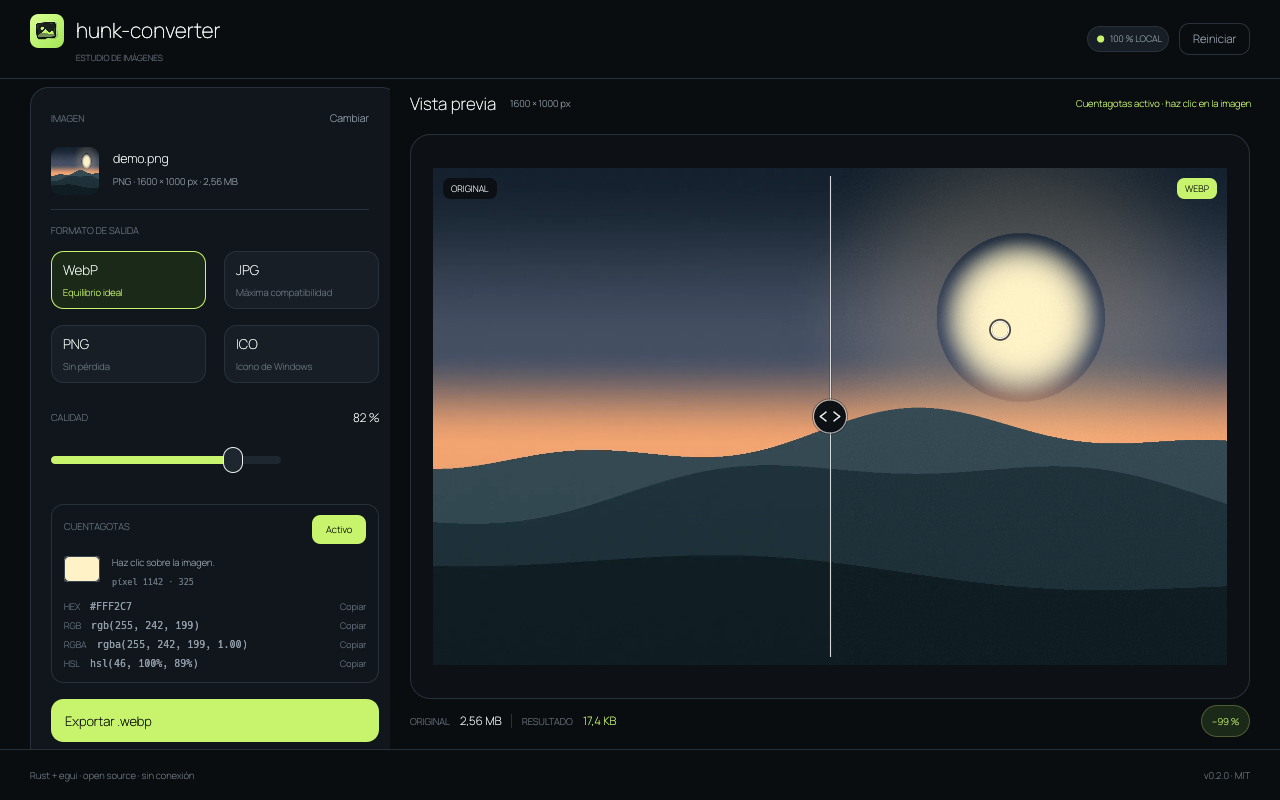
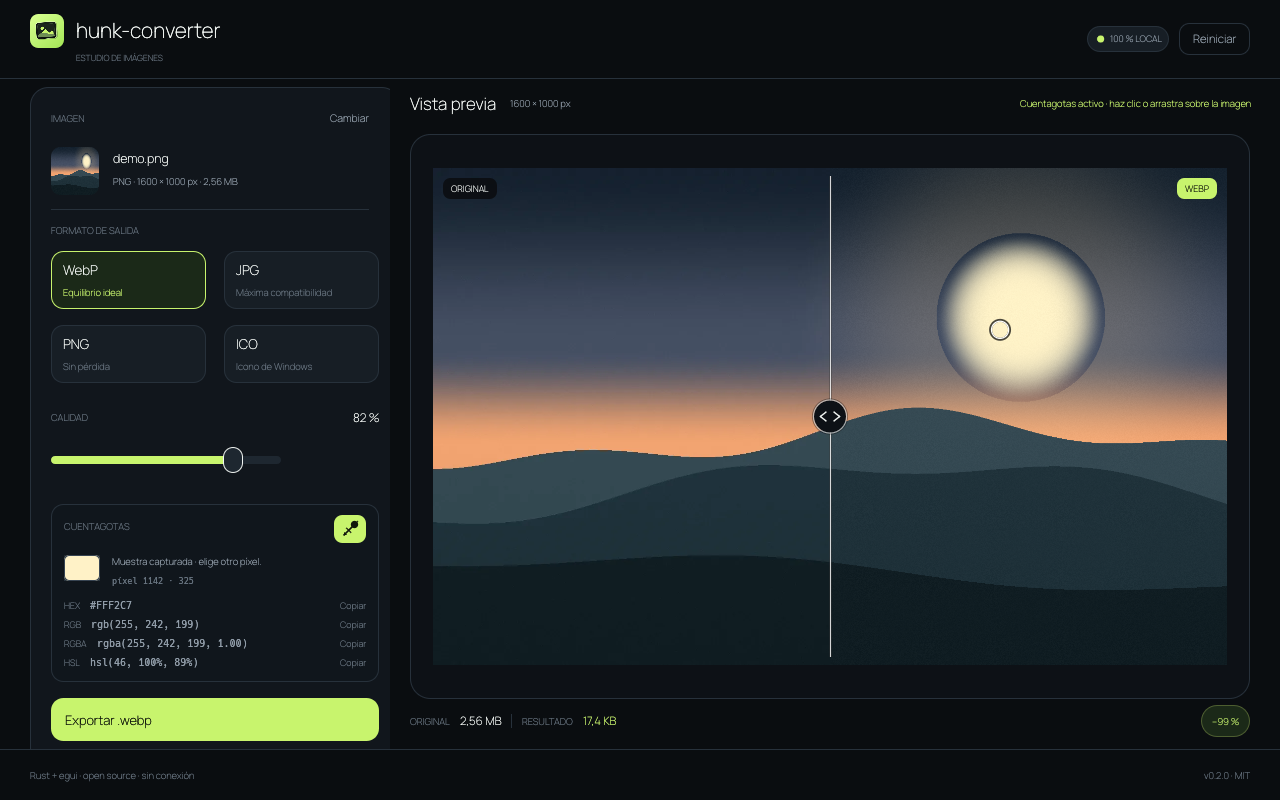
feat: usar icono de cuentagotas con arrastre directo

Changed region(s): [[0.0625, 0.6875, 0.2812, 0.9062], [0.8125, 0.125, 0.9375, 0.1562], [0.2188, 0.625, 0.2812, 0.6875]]

diff --git a/src/app.rs b/src/app.rs
@@ -739,6 +739,7 @@ impl HunkApp {
     }
 
     fn show_color_panel(&mut self, ui: &mut egui::Ui, ctx: &egui::Context) {
+        let mut activate_eyedropper = false;
         let mut toggle_eyedropper = false;
         let mut copy_text: Option<String> = None;
         let icon_mode = self.format == OutputFormat::Ico;
@@ -751,42 +752,21 @@ impl HunkApp {
             ui.horizontal(|ui| {
                 ui.label(T::eyebrow("CUENTAGOTAS"));
                 ui.with_layout(Layout::right_to_left(Align::Center), |ui| {
-                    let label = if self.eyedropper_active {
-                        "Activo"
+                    let response = eyedropper_button(ui, self.eyedropper_active, !icon_mode);
+                    let hint = if icon_mode {
+                        "El cuentagotas está disponible en la vista de imagen."
+                    } else if self.eyedropper_active {
+                        "Desactivar el cuentagotas"
                     } else {
-                        "Activar"
+                        "Activar el cuentagotas · también puedes arrastrar hasta la imagen"
                     };
-                    let button = egui::Button::new(
-                        RichText::new(label)
-                            .size(9.5)
-                            .color(if self.eyedropper_active {
-                                T::ACCENT_INK
-                            } else {
-                                T::TEXT_MUTED
-                            })
-                            .strong(),
-                    )
-                    .selected(self.eyedropper_active)
-                    .fill(if self.eyedropper_active {
-                        T::ACCENT
-                    } else {
-                        T::SURFACE_3
-                    })
-                    .stroke(Stroke::new(
-                        1.0,
-                        if self.eyedropper_active {
-                            T::ACCENT
-                        } else {
-                            T::BORDER
-                        },
-                    ))
-                    .corner_radius(CornerRadius::same(8));
-                    let response = ui.add_enabled(!icon_mode, button);
-                    if icon_mode {
-                        response
-                            .on_hover_text("El cuentagotas está disponible en la vista de imagen.");
-                    } else if response.clicked() {
-                        toggle_eyedropper = true;
+                    let response = response.on_hover_text(hint);
+                    if !icon_mode {
+                        if response.drag_started() {
+                            activate_eyedropper = true;
+                        } else if response.clicked() {
+                            toggle_eyedropper = true;
+                        }
                     }
                 });
             });
@@ -814,11 +794,15 @@ impl HunkApp {
                     let message = if icon_mode {
                         "Cambia a WebP, JPG o PNG para muestrear."
                     } else if self.eyedropper_active {
-                        "Haz clic sobre la imagen."
+                        if sample.is_some() {
+                            "Muestra capturada · elige otro píxel."
+                        } else {
+                            "Haz clic o arrastra sobre la imagen."
+                        }
                     } else if sample.is_some() {
                         "Muestra capturada."
                     } else {
-                        "Activa y haz clic sobre la imagen."
+                        "Pulsa el cuentagotas y elige un píxel."
                     };
                     ui.label(RichText::new(message).size(9.5).color(T::TEXT_MUTED));
                     if let Some((x, y)) = sampled_position {
@@ -865,7 +849,10 @@ impl HunkApp {
             }
         });
 
-        if toggle_eyedropper {
+        if activate_eyedropper {
+            self.eyedropper_active = true;
+            ctx.request_repaint();
+        } else if toggle_eyedropper {
             self.eyedropper_active = !self.eyedropper_active;
             ctx.request_repaint();
         }
@@ -948,9 +935,11 @@ impl HunkApp {
                             ui.label(RichText::new("Procesando…").size(9.5).color(T::TEXT_MUTED));
                         } else if self.eyedropper_active {
                             ui.label(
-                                RichText::new("Cuentagotas activo · haz clic en la imagen")
-                                    .size(9.5)
-                                    .color(T::ACCENT),
+                                RichText::new(
+                                    "Cuentagotas activo · haz clic o arrastra sobre la imagen",
+                                )
+                                .size(9.5)
+                                .color(T::ACCENT),
                             );
                         } else if self.format == OutputFormat::Ico {
                             ui.label(
@@ -1057,7 +1046,7 @@ impl HunkApp {
             if response.hovered() {
                 ctx.set_cursor_icon(CursorIcon::Crosshair);
             }
-            if (response.is_pointer_button_down_on() || response.clicked())
+            if (ctx.input(|input| input.pointer.primary_down()) || response.clicked())
                 && let Some(position) = ctx.input(|input| input.pointer.interact_pos())
                 && image_rect.contains(position)
             {
@@ -1399,6 +1388,11 @@ impl eframe::App for HunkApp {
             self.load_path(&path, &ctx);
         }
 
+        if self.eyedropper_active && ctx.input(|input| input.key_pressed(egui::Key::Escape)) {
+            self.eyedropper_active = false;
+            ctx.request_repaint();
+        }
+
         let (export_shortcut, reset_shortcut, open_shortcut) = ctx.input(|input| {
             let command = input.modifiers.command;
             (
@@ -1435,6 +1429,90 @@ impl eframe::App for HunkApp {
     fn clear_color(&self, _visuals: &egui::Visuals) -> [f32; 4] {
         T::BG.to_normalized_gamma_f32()
     }
+}
+
+fn eyedropper_button(ui: &mut egui::Ui, active: bool, enabled: bool) -> egui::Response {
+    let (rect, response) = ui.allocate_exact_size(vec2(32.0, 28.0), Sense::click_and_drag());
+    let hovered = enabled && response.hovered();
+    let fill = if active && enabled {
+        T::ACCENT
+    } else if hovered {
+        T::SURFACE_3
+    } else {
+        T::SURFACE_2
+    };
+    let border = if active && enabled {
+        T::ACCENT
+    } else if hovered {
+        T::BORDER_STRONG
+    } else {
+        T::BORDER
+    };
+    let icon = if !enabled {
+        T::TEXT_FAINT
+    } else if active {
+        T::ACCENT_INK
+    } else {
+        T::TEXT_MUTED
+    };
+
+    let painter = ui.painter();
+    painter.rect(
+        rect,
+        CornerRadius::same(8),
+        fill,
+        Stroke::new(1.0, border),
+        StrokeKind::Inside,
+    );
+    paint_eyedropper(painter, rect.shrink2(vec2(8.0, 6.0)), icon);
+    response.widget_info(|| egui::WidgetInfo::labeled(egui::Role::Button, enabled, "Cuentagotas"));
+
+    if enabled {
+        response.on_hover_cursor(CursorIcon::PointingHand)
+    } else {
+        response
+    }
+}
+
+fn paint_eyedropper(painter: &egui::Painter, rect: Rect, color: Color32) {
+    let size = rect.width().min(rect.height());
+    let center = rect.center();
+    let tip = pos2(center.x - size * 0.40, center.y + size * 0.40);
+    let shoulder = pos2(center.x - size * 0.08, center.y + size * 0.08);
+    let bulb_center = pos2(center.x + size * 0.28, center.y - size * 0.28);
+    let direction = (bulb_center - shoulder).normalized();
+    let perpendicular = vec2(-direction.y, direction.x);
+
+    painter.line_segment(
+        [tip + direction * size * 0.05, bulb_center],
+        Stroke::new(size * 0.11, color),
+    );
+    painter.circle_filled(bulb_center, size * 0.22, color);
+    painter.line_segment(
+        [
+            shoulder - perpendicular * size * 0.18,
+            shoulder + perpendicular * size * 0.18,
+        ],
+        Stroke::new(size * 0.08, color),
+    );
+    painter.line_segment(
+        [
+            bulb_center + direction * size * 0.14,
+            bulb_center + direction * size * 0.26,
+        ],
+        Stroke::new(size * 0.08, color),
+    );
+
+    let tip_base = tip + direction * size * 0.18;
+    painter.add(egui::Shape::convex_polygon(
+        vec![
+            tip,
+            tip_base + perpendicular * size * 0.12,
+            tip_base - perpendicular * size * 0.12,
+        ],
+        color,
+        Stroke::NONE,
+    ));
 }
 
 fn format_card(

diff --git a/docs/benchmark-2026-10-28.md b/docs/benchmark-2026-10-28.md
@@ -10,7 +10,7 @@
 | --- | ---: | ---: | ---: |
 | Binario Linux | 70,7 MiB | **9,1 MiB** | **−87,2 %** |
 | Binario Windows | 104,7 MiB | **7,8 MiB** | **−92,6 %** |
-| Arranque a ventana (mediana, 10 runs) | 239,8 ms | **171,4 ms** | **−28,5 %** |
+| Arranque a ventana (mediana, 20 runs) | 239,8 ms | **177,8 ms** | **−25,9 %** |
 | RAM en reposo (RSS) | 209,7 MiB | **101,4 MiB** | **−51,6 %** |
 | RAM con imagen 12 MP | 316,9 MiB | **211,6 MiB** | **−33,2 %** |
 | Pico con GUI e imagen 12 MP | 447,5 MiB | **335,4 MiB** | **−25,1 %** |
@@ -49,11 +49,11 @@ Las mediciones de interfaz se hicieron con las builds portables finales.
 
 | Artefacto | Godot | Rust/egui 0.2.0 | Reducción |
 | --- | ---: | ---: | ---: |
-| Ejecutable Linux | 74.171.392 B (70,7 MiB) | 9.495.480 B (9,1 MiB) | 87,2 % |
-| Carpeta Linux | 74.178.860 B | 9.503.217 B | 87,2 % |
+| Ejecutable Linux | 74.171.392 B (70,7 MiB) | 9.498.416 B (9,1 MiB) | 87,2 % |
+| Carpeta Linux | 74.178.860 B | 9.506.153 B | 87,2 % |
 | `.tar.gz` Linux | 27,7 MiB | 4,2 MiB | 84,9 % |
-| Ejecutable Windows | 109.834.960 B (104,7 MiB) | 8.178.176 B (7,8 MiB) | 92,6 % |
-| Carpeta Windows | 109.842.428 B | 8.185.913 B | 92,5 % |
+| Ejecutable Windows | 109.834.960 B (104,7 MiB) | 8.180.224 B (7,8 MiB) | 92,6 % |
+| Carpeta Windows | 109.842.428 B | 8.187.961 B | 92,5 % |
 | `.zip` Windows | 36,9 MiB | 3,7 MiB | 89,9 % |
 
 Dependencias:
@@ -74,18 +74,18 @@ frame pintado y no es un arranque en frío real.
 
 | Serie | Godot | Rust/egui 0.2.0 | Diferencia |
 | --- | ---: | ---: | ---: |
-| Mediana, 10 arranques en caliente | 239,8 ms | **171,4 ms** | −28,5 % |
-| Media | 243,5 ms | **173,0 ms** | −29,0 % |
-| Desviación estándar | 8,6 ms | 8,6 ms | — |
-| P95 | 262,1 ms | 191,8 ms | −26,8 % |
-| Rango | 235,1–262,1 ms | 164,1–191,8 ms | — |
-| Mediana tras expulsar el ejecutable de caché (8 runs) | 245,8 ms | **169,2 ms** | −31,2 % |
+| Mediana, 20 arranques en caliente | 239,8 ms | **177,8 ms** | −25,9 % |
+| Media | 243,5 ms | **179,9 ms** | −26,1 % |
+| Desviación estándar | 8,6 ms | 7,8 ms | — |
+| P95 | 262,1 ms | 192,9 ms | −26,4 % |
+| Rango | 235,1–262,1 ms | 170,2–201,9 ms | — |
+| Mediana tras expulsar el ejecutable de caché (10 runs) | 245,8 ms | **185,0 ms** | −24,7 % |
 
 Muestras en caliente:
 
 ```text
 Godot: 236,8 235,1 239,9 239,7 238,9 262,1 236,6 249,8 241,2 255,0 ms
-Rust:  165,1 175,4 172,1 168,2 170,6 164,1 174,6 184,0 164,1 191,8 ms
+Rust:  170,2 174,8 179,9 177,5 172,0 178,1 173,9 176,7 201,9 177,2 185,9 184,0 170,4 182,1 174,4 172,2 189,3 181,6 182,4 192,9 ms
 ```
 
 Se hizo una segunda tanda expulsando solo el ejecutable con
@@ -165,7 +165,7 @@ el WebP menores con el mismo valor nominal 82.
 1. **Tamaño:** la diferencia es estructural y enorme: 9,1 MiB frente a 70,7 MiB
    en Linux y 7,8 MiB frente a 104,7 MiB en Windows, incluso después de añadir
    SVG y el cuentagotas.
-2. **Arranque:** la aplicación Rust abre la ventana alrededor de un 28 % antes.
+2. **Arranque:** la aplicación Rust abre la ventana alrededor de un 26 % antes.
    Es una mejora real, aunque menor que la diferencia de tamaño.
 3. **Memoria:** Rust usa la mitad de RAM en reposo y entre un 25 % y un 34 %
    menos en los escenarios de imagen medidos.

diff --git a/proyecto.md b/proyecto.md
@@ -67,8 +67,10 @@ La versión actual está construida en **Rust + egui**. El prototipo original de
 
 ### 3.4 Cuentagotas
 
-- Botón **Activar** en el panel inferior.
-- Al activarlo, hacer clic o arrastrar sobre la vista de imagen muestrea el píxel correspondiente de la imagen original.
+- Icono de **cuentagotas** en la cabecera de la tarjeta inferior.
+- Un clic activa o desactiva el modo; después basta con hacer clic sobre la imagen.
+- También se puede pulsar el icono y arrastrar hasta el píxel: se muestrea mientras se arrastra y se conserva el último color al soltar.
+- `Esc` desactiva el modo sin alterar la muestra.
 - Se muestran las coordenadas del píxel muestreado.
 - Se dibuja una marca visual sobre la imagen.
 - Códigos simultáneos: **HEX, RGB, RGBA y HSL**, cada uno con botón de copia.
@@ -189,9 +191,11 @@ Archivo local
 - La posición del puntero se convierte a coordenadas del píxel original completo.
 - El color se lee de la imagen RGBA original, no del resultado recomprimido.
 - Se conservan los cuatro canales, de modo que RGBA muestra la transparencia real.
+- El icono alterna el modo al hacer clic; si se arrastra desde él, se activa y muestrea bajo el puntero.
 - El modo tiene prioridad sobre el arrastre del divisor.
 - La marca de muestreo se pinta con contraste claro/oscuro.
-- En modo ICO el botón queda deshabilitado para no muestrear una representación engañosa.
+- `Esc` cancela el modo.
+- En modo ICO el icono queda deshabilitado para no muestrear una representación engañosa.
 
 ### ICO
 

diff --git a/notes/2026-10-29_cierre-0.2.0.md b/notes/2026-10-29_cierre-0.2.0.md
@@ -19,6 +19,16 @@ Generadas con el binario release y el capturador interno:
 
 Se eliminaron las capturas antiguas `hunk-converter-rust-poc*.png`.
 
+## Ajuste de UX del cuentagotas
+
+- Se sustituye el botón de texto **Activar** por un icono de pipeta en la
+  cabecera de la tarjeta.
+- Un clic activa o desactiva el modo; después se hace clic sobre la imagen.
+- También se puede pulsar el icono y arrastrar hasta el píxel: se muestrea
+  durante el arrastre y se conserva el último color al soltar.
+- `Esc` cancela el modo.
+- Ambos flujos se probaron con clic y arrastre reales bajo Xvfb.
+
 ## Verificación
 
 - `cargo test`: **8 pruebas superadas**.
@@ -34,12 +44,12 @@ Se eliminaron las capturas antiguas `hunk-converter-rust-poc*.png`.
 
 | Métrica | Valor |
 | --- | ---: |
-| Ejecutable Linux | 9.495.480 B (9,1 MiB) |
-| Ejecutable Windows | 8.178.176 B (7,8 MiB) |
-| `.tar.gz` Linux | 4.385.971 B (4,2 MiB) |
-| `.zip` Windows | 3.891.044 B (3,7 MiB) |
-| Arranque a ventana (mediana, 10 runs) | 171,4 ms |
-| Arranque con ejecutable expulsado de caché (mediana, 8 runs) | 169,2 ms |
+| Ejecutable Linux | 9.498.416 B (9,1 MiB) |
+| Ejecutable Windows | 8.180.224 B (7,8 MiB) |
+| `.tar.gz` Linux | 4.386.700 B (4,2 MiB) |
+| `.zip` Windows | 3.891.472 B (3,7 MiB) |
+| Arranque a ventana (mediana, 20 runs) | 177,8 ms |
+| Arranque con ejecutable expulsado de caché (mediana, 10 runs) | 185,0 ms |
 | RSS en reposo | 101,4 MiB |
 | RSS con imagen 12 MP | 211,6 MiB |
 | Pico con GUI e imagen 12 MP | 335,4 MiB |

diff --git a/t-completadas.md b/t-completadas.md
@@ -71,7 +71,7 @@
 **Descripción:** Añadir un cuentagotas que permita seleccionar píxeles de la imagen cargada desde la vista previa y mostrar sus códigos HEX, RGB, RGBA y HSL, con copia al portapapeles. El modo debe poder activarse y desactivarse, indicar las coordenadas del píxel, dibujar una marca de muestreo y desactivarse cuando no tenga sentido (vista ICO).
 
 **Completada:** 2026-10-28
-**Resultado:** Cuentagotas implementado en el panel inferior de la versión Rust. Muestrea el píxel original al hacer clic o arrastrar, conserva la posición del divisor, muestra coordenadas y los cuatro códigos con copia, y se desactiva en la vista ICO. Verificado con interacción real bajo Xvfb.
+**Resultado:** Cuentagotas implementado en el panel inferior de la versión Rust con un icono dedicado. Se activa con un clic o arrastrando desde el icono hasta la imagen, muestrea el píxel original, conserva la posición del divisor, muestra coordenadas y los cuatro códigos con copia, y se desactiva en la vista ICO. También se cancela con `Esc`. Verificado con interacción real bajo Xvfb.
 
 ## t-20 — Prueba de concepto Rust + egui
 

diff --git a/retomar.md b/retomar.md
@@ -69,7 +69,7 @@ Builds portables:
 - **Salida portable:** en una build, `<carpeta del ejecutable>/export/`; en desarrollo, `target/release/export/`.
 - **No sobrescribir:** `foto.webp`, `foto-2.webp`, etc.
 - **Vista previa fiel:** decodificar el buffer final, no estimar.
-- **Cuentagotas:** muestrea el píxel original; no mueve el divisor; se desactiva en ICO; limpia la muestra al cambiar de imagen o reiniciar.
+- **Cuentagotas:** icono de pipeta; un clic activa o desactiva el modo y también se puede arrastrar desde el icono hasta la imagen; muestrea el píxel original; no mueve el divisor; se cancela con `Esc`; se desactiva en ICO; limpia la muestra al cambiar de imagen o reiniciar.
 - **JPG:** transparencia compuesta sobre blanco.
 - **ICO:** frames PNG, contenedor manual, ajuste centrado sin recorte, al menos un tamaño.
 - **Calidad inicial:** 82 %.
